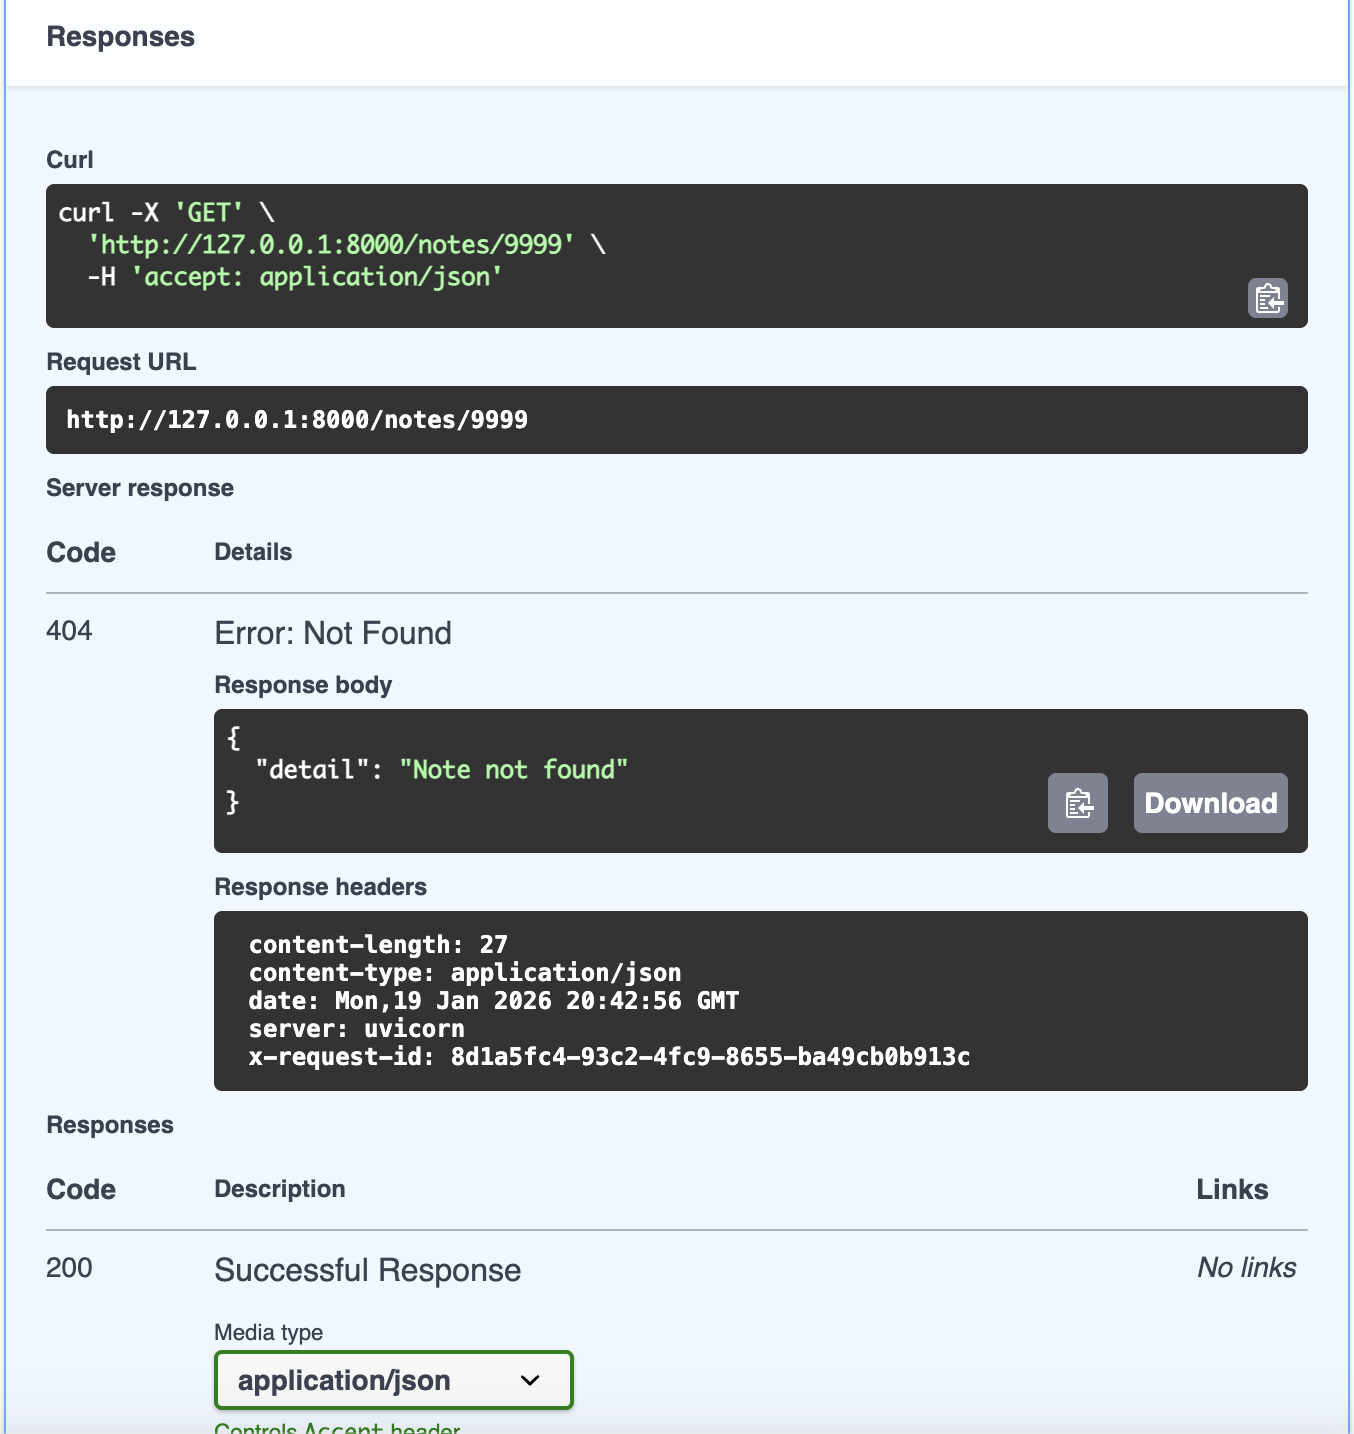
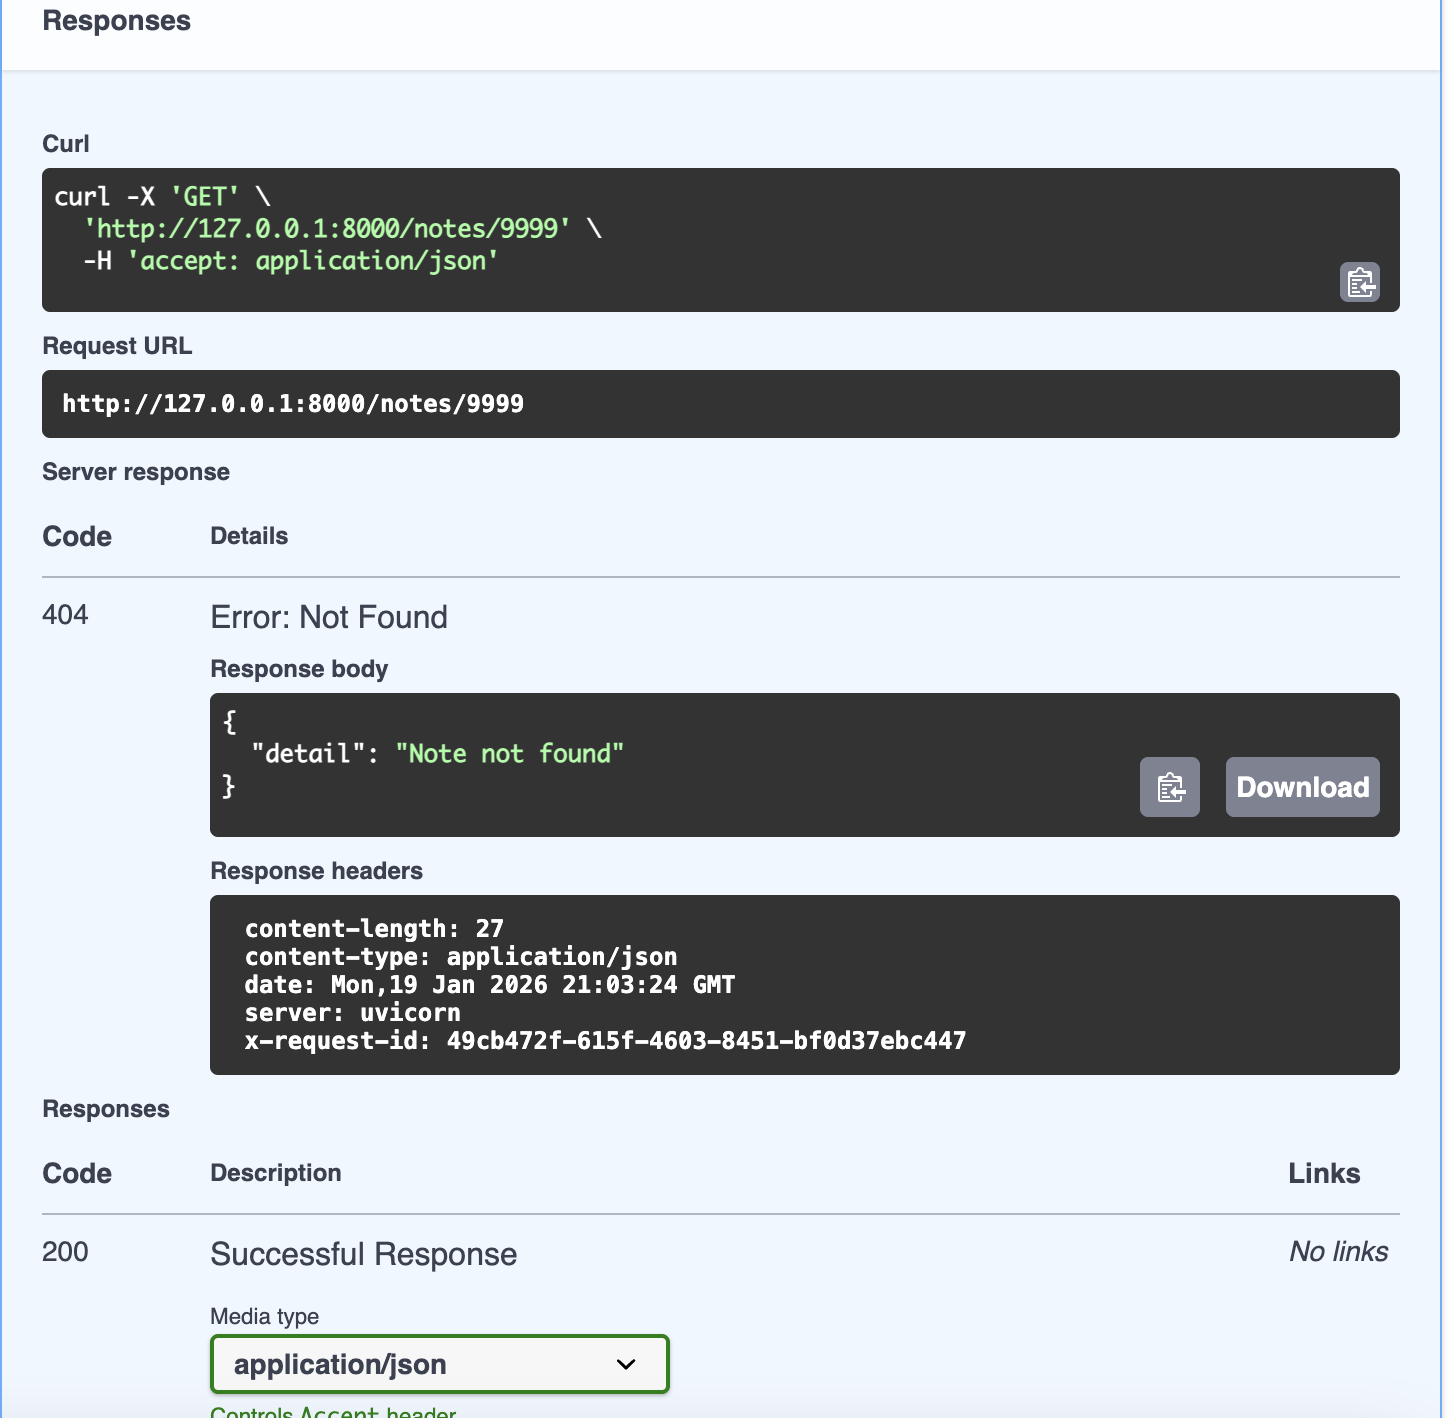
docs: add GET /notes/{id} 404 proof with request id

diff --git a/README.md b/README.md
@@ -17,6 +17,8 @@ A simple FastAPI backend providing CRUD endpoints for notes (starter backend for
 - Error handling test cleanup:
   - proof/database-migrations/swagger-boom-404-after-delete.png
 
+proof/observability/swagger-get-note-404-request-id.png
+
 ## Run locally
 
 1) Activate the conda environment:
